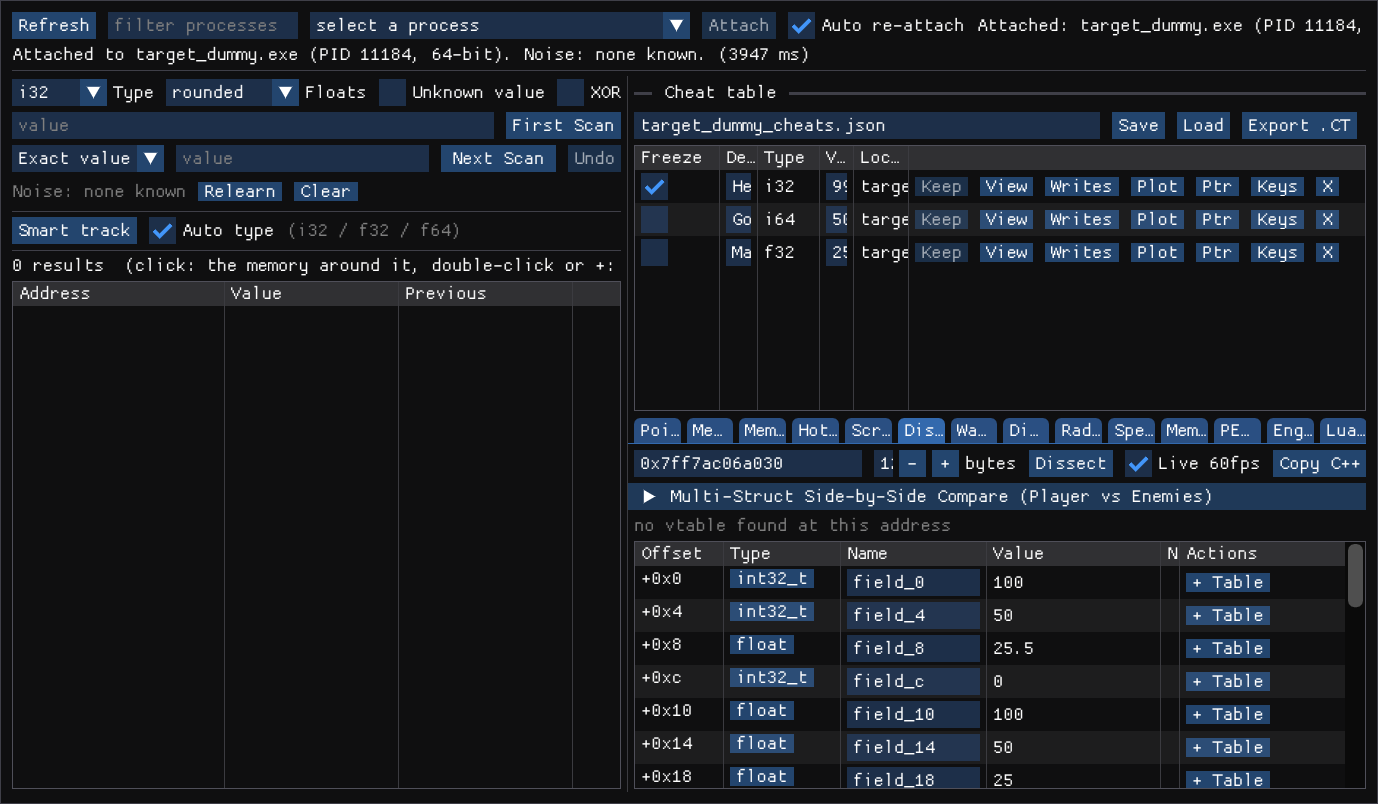
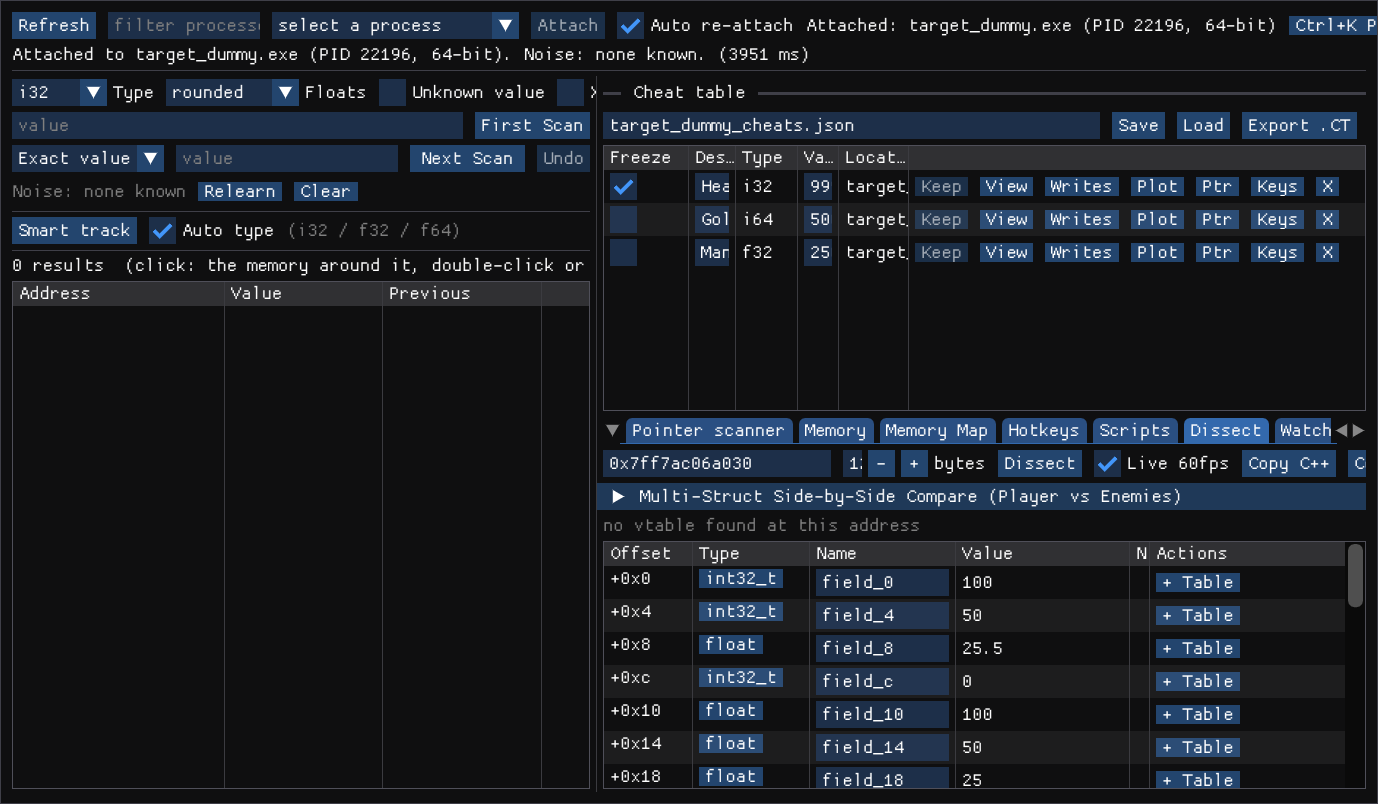
Fix trainer C++ escaping, CLI stream formatting, GUI tab/layout polish, and UCRT64 CI

diff --git a/gui/src/main.cpp b/gui/src/main.cpp
@@ -754,14 +754,14 @@ void draw_process_bar(App& app) {
     ImGui::BeginDisabled(job_running(app));
     if (ImGui::Button("Refresh")) refresh_processes(app);
     ImGui::SameLine();
-    ImGui::SetNextItemWidth(em(10));
+    ImGui::SetNextItemWidth(em(8));
     ImGui::InputTextWithHint("##filter", "filter processes", &app.process_filter);
     ImGui::SameLine();
 
     const std::string preview = app.selected_process >= 0
         ? app.processes[app.selected_process].name + " (" + std::to_string(app.processes[app.selected_process].pid) + ")"
         : std::string("select a process");
-    ImGui::SetNextItemWidth(em(20));
+    ImGui::SetNextItemWidth(em(13));
     if (ImGui::BeginCombo("##process", preview.c_str())) {
         std::string filter = app.process_filter;
         std::transform(filter.begin(), filter.end(), filter.begin(), ::tolower);
@@ -1351,7 +1351,7 @@ void draw_pointer_scanner(App& app) {
     ImGui::Combo("Add as", &app.ptr_add_type, kTypeNames, 10); // numeric types only
 
     ImGui::BeginDisabled(!is_attached(app) || job_running(app));
-    ImGui::SetNextItemWidth(em(14));
+    ImGui::SetNextItemWidth(em(13));
     ImGui::InputTextWithHint("##ptr_map_path", "pointers.ncem", &app.ptr_map_path);
     ImGui::SameLine();
     if (ImGui::Button("Save Map (.ncem)")) {
@@ -2009,7 +2009,7 @@ void draw_scripts(App& app) {
     }
 
     ImGui::Separator();
-    ImGui::SetNextItemWidth(em(14));
+    ImGui::SetNextItemWidth(em(13));
     ImGui::InputTextWithHint("##script_name", "script name", &app.script_name);
     ImGui::SameLine();
     const bool editing = app.editing_script >= 0;
@@ -4084,7 +4084,7 @@ void draw_pe_tools(App& app) {
         app.pe_status = "Failed to parse PE or ELF headers for: " + input;
     };
 
-    ImGui::SetNextItemWidth(em(14));
+    ImGui::SetNextItemWidth(em(13));
     ImGui::InputTextWithHint("##pe_mod_in", "Module name or 0xAddress", &app.pe_module_input);
     ImGui::SameLine();
     ImGui::BeginDisabled(!attached);
@@ -4321,7 +4321,7 @@ void draw_engine_inspector(App& app) {
                                          " (" + std::to_string(app.unity_report->types.size()) + " types)";
             }
             ImGui::EndDisabled();
-            ImGui::SetNextItemWidth(em(14));
+            ImGui::SetNextItemWidth(em(13));
             ImGui::InputTextWithHint("##unity_obj_addr", "IL2CPP Object 0xAddr", &app.unity_obj_input);
             ImGui::SameLine();
             ImGui::BeginDisabled(!attached);
@@ -4380,7 +4380,7 @@ void draw_engine_inspector(App& app) {
                 app.engine_status = "Decoded " + std::to_string(app.unreal_names.size()) + " FNames, " +
                                     std::to_string(app.unreal_objects.size()) + " UObjects.";
             }
-            ImGui::SetNextItemWidth(em(14));
+            ImGui::SetNextItemWidth(em(13));
             ImGui::InputTextWithHint("##ue_uworld", "GWorld / UWorld* 0xAddr", &app.unreal_uworld_input);
             ImGui::SameLine();
             if (ImGui::Button("Dump World Actors")) {
@@ -4745,7 +4745,7 @@ void draw_ui(App& app) {
     if (ImGui::BeginTable("layout", 2, ImGuiTableFlags_Resizable | ImGuiTableFlags_BordersInnerV,
                           ImGui::GetContentRegionAvail())) {
         ImGui::TableSetupColumn("scan", ImGuiTableColumnFlags_WidthStretch, 1.0f);
-        ImGui::TableSetupColumn("table", ImGuiTableColumnFlags_WidthStretch, 1.2f);
+        ImGui::TableSetupColumn("table", ImGuiTableColumnFlags_WidthStretch, 1.32f);
         ImGui::TableNextRow();
 
         ImGui::TableNextColumn();
@@ -4758,7 +4758,7 @@ void draw_ui(App& app) {
         ImGui::TableNextColumn();
         ImGui::SeparatorText("Cheat table");
         draw_cheat_table(app);
-        if (ImGui::BeginTabBar("tools")) {
+        if (ImGui::BeginTabBar("tools", ImGuiTabBarFlags_FittingPolicyScroll | ImGuiTabBarFlags_TabListPopupButton)) {
             auto flags_for = [&](Tab tab) { return app.select_tab == tab ? ImGuiTabItemFlags_SetSelected : 0; };
             const ImGuiTabItemFlags pointer_flags = flags_for(Tab::PointerScanner);
             const ImGuiTabItemFlags memory_flags = flags_for(Tab::Memory);

diff --git a/engine/src/table/standalone_generator.cpp b/engine/src/table/standalone_generator.cpp
@@ -15,6 +15,22 @@ namespace {
 
 void append_common_helpers(std::ostringstream& ss, const std::string& proc, const CheatTable& table);
 
+std::string escape_cpp_string(const std::string& text) {
+    std::string out;
+    out.reserve(text.size() + 8);
+    for (char c : text) {
+        switch (c) {
+            case '\\': out += "\\\\"; break;
+            case '"':  out += "\\\""; break;
+            case '\n': out += "\\n"; break;
+            case '\r': out += "\\r"; break;
+            case '\t': out += "\\t"; break;
+            default:   out += c; break;
+        }
+    }
+    return out;
+}
+
 void append_init_items(std::ostringstream& ss, const CheatTable& table) {
     ss << "void InitItems() {\n";
     int hotkey_idx = 1;
@@ -42,8 +58,8 @@ void append_init_items(std::ostringstream& ss, const CheatTable& table) {
 
         ss << "    {\n";
         ss << "        TrainerItem item;\n";
-        ss << "        item.description = \"" << (e.description.empty() ? ("Item_" + std::to_string(i)) : e.description) << "\";\n";
-        ss << "        item.moduleName = \"" << e.location.module_name << "\";\n";
+        ss << "        item.description = \"" << escape_cpp_string(e.description.empty() ? ("Item_" + std::to_string(i)) : e.description) << "\";\n";
+        ss << "        item.moduleName = \"" << escape_cpp_string(e.location.module_name) << "\";\n";
         ss << "        item.baseOffset = 0x" << std::hex << e.location.base_offset << std::dec << ";\n";
         if (!e.location.offsets.empty()) {
             ss << "        item.offsets = {";
@@ -69,7 +85,7 @@ void append_init_items(std::ostringstream& ss, const CheatTable& table) {
 
 void append_common_helpers(std::ostringstream& ss, const std::string& proc, const CheatTable& table) {
     ss << "namespace {\n\n";
-    ss << "const char* kTargetProcess = \"" << proc << "\";\n\n";
+    ss << "const char* kTargetProcess = \"" << escape_cpp_string(proc) << "\";\n\n";
 
     ss << R"(DWORD FindProcessId(const std::string& processName) {
     PROCESSENTRY32 entry;
@@ -219,7 +235,7 @@ std::string generate_standalone_trainer_cpp(
         ss << "#include <atomic>\n#include <chrono>\n#include <cstdint>\n#include <cstdlib>\n"
            << "#include <cstring>\n#include <dirent.h>\n#include <fstream>\n#include <iostream>\n"
            << "#include <sstream>\n#include <string>\n#include <sys/uio.h>\n#include <thread>\n#include <vector>\n\n";
-        ss << "namespace {\nconst char* kTargetProcess = \"" << proc << "\";\n\n";
+        ss << "namespace {\nconst char* kTargetProcess = \"" << escape_cpp_string(proc) << "\";\n\n";
         ss << R"LINUX_TR(struct AtomicFlag {
     std::atomic<bool> value{false};
     AtomicFlag() = default;

diff --git a/tests/test_strings_and_generator.cpp b/tests/test_strings_and_generator.cpp
@@ -62,6 +62,17 @@ TEST_CASE("standalone trainer generator creates valid Native Win32 GUI source co
     CHECK(cpp.find("Infinite Health") != std::string::npos);
     CHECK(cpp.find("gui_game.exe") != std::string::npos);
     CHECK(cpp.find("0x54321") != std::string::npos);
+
+    // Special characters in description/module/process must be escaped as valid C++ string literals
+    TableEntry e_esc;
+    e_esc.description = "God \"Mode\" \\ Shield";
+    e_esc.type = DataType::Int32;
+    e_esc.location.module_name = "sub\\mod.dll";
+    table.entries.push_back(e_esc);
+    const std::string escaped_cpp = generate_standalone_trainer_cpp(table, "my\"game.exe", TrainerKind::Console);
+    CHECK(escaped_cpp.find("God \\\"Mode\\\" \\\\ Shield") != std::string::npos);
+    CHECK(escaped_cpp.find("sub\\\\mod.dll") != std::string::npos);
+    CHECK(escaped_cpp.find("kTargetProcess = \"my\\\"game.exe\"") != std::string::npos);
 }
 
 TEST_CASE("strings scanner extracts ASCII and UTF-16 strings with filter") {

diff --git a/cli/src/main.cpp b/cli/src/main.cpp
@@ -1329,7 +1329,8 @@ void cmd_disasm(const std::string& where, size_t count) {
         }
         std::cout << "\n";
     }
-    std::cout << "--------------------------------------------------------------------------------\n\n";
+    std::cout << std::right << std::setfill(' ')
+              << "--------------------------------------------------------------------------------\n\n";
 }
 
 void cmd_xrefs(const std::string& where, const std::string& mod_filter) {
@@ -1427,7 +1428,7 @@ void cmd_assemble(const std::string& where, const std::string& instruction) {
     for (uint8_t b : encoded->bytes) {
         std::cout << std::hex << std::setw(2) << std::setfill('0') << static_cast<int>(b) << " ";
     }
-    std::cout << std::dec << "\n";
+    std::cout << std::dec << std::setfill(' ') << "\n";
 }
 
 // gentrainer <output.cpp> [proc_name] [gui|console]

diff --git a/README.md b/README.md
@@ -48,7 +48,7 @@
 
 2. **`engine` (نواة المحرك):**
    * **طبقة تجريد النظام (HAL):**
-     * واجهة `IProcess` للتعامل الشفاف مع أنظمة التشغيل (Windows حالياً مع جاهزية التوسيع لـ Linux).
+     * واجهة `IProcess` للتعامل الشفاف مع **Windows و Linux** (`/proc/<pid>/maps`, `process_vm_readv/writev`, `ptrace`).
      * فحص ذكي لصفحات الذاكرة عبر `VirtualQueryEx` مع استبعاد صفحات الـ Guard و NoAccess.
      * كتابة آمنة على الذاكرة مع إدارة الصلاحيات تلقائياً (`VirtualProtectEx`).
      * تجميد واستئناف العمليات الهدف (`NtSuspendProcess` / `NtResumeProcess`) لمنع القراءات الممزقة (Torn Reads).
